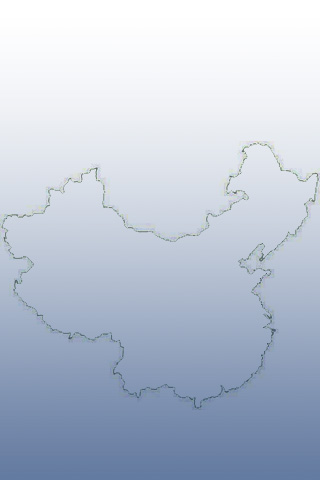
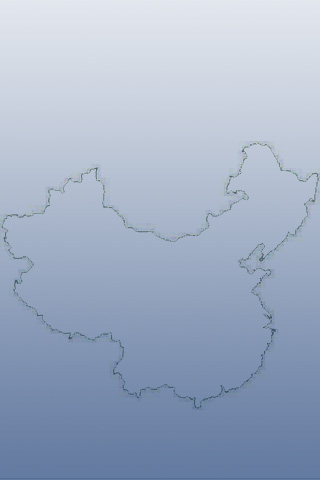
美化界面

diff --git a/Classes/SearchConditionController.m b/Classes/SearchConditionController.m
@@ -45,6 +45,9 @@
 // Implement viewDidLoad to do additional setup after loading the view, typically from a nib.
 - (void)viewDidLoad {
 	NSLog(@"SearchCondition viewDidLoad!");
+    UINavigationController *nav = (UINavigationController *)self.parentViewController;
+    nav.view.backgroundColor = [ UIColor colorWithPatternImage:[UIImage imageNamed:@"china3.jpg"] ];
+
     
     NSDate *curDate = [NSDate date];//获取当前日期
     NSDateFormatter *formater = [[ NSDateFormatter alloc] init];
@@ -264,14 +267,16 @@
 
     UITableViewCell *cell = [[[UITableViewCell alloc] initWithFrame:CGRectZero reuseIdentifier:SearchConditionFieldCellIdentifier] autorelease];
 
+    UIColor *aliveColor = [UIColor colorWithRed:0 green:0.2f blue:0.55f alpha:1];
+
     UILabel *label = [[UILabel alloc] initWithFrame:CGRectMake(10, 10, 75, 25)];
     label.textAlignment = UITextAlignmentRight;
     label.tag = kLabelTag;
     label.font = [UIFont boldSystemFontOfSize:14];
-    label.textColor = [UIColor grayColor];
-    label.backgroundColor = [UIColor whiteColor];
+    //label.textColor = [UIColor grayColor];
+    label.textColor = aliveColor;
+    //[aliveColor release];
     [cell.contentView addSubview:label];
-    
 	    
     cell.backgroundColor = [UIColor whiteColor]; 
     cell.textColor = [UIColor blackColor];
@@ -279,10 +284,12 @@
     switch (row) {
         case 0:
             label.text = @"航空公司";
+            label.backgroundColor = [UIColor clearColor];
             cell.selectionStyle = UITableViewCellSelectionStyleBlue;
             cell.accessoryType = UITableViewCellAccessoryDisclosureIndicator;
             
             UITextField *textField = [[UITextField alloc] initWithFrame:CGRectMake(90, 12, 200, 25)];
+            textField.font = [UIFont boldSystemFontOfSize:16];
             textField.clearsOnBeginEditing = NO;
             if (m_selectedSegmentIndex == 0) {//按航班号查询
                 textField.placeholder = @"必填";
@@ -293,16 +300,19 @@
             
             textField.tag = kSearchConditionCompanyTag;
             textField.text = self.searchConditionCompany.abbrev;
+
             [cell.contentView addSubview:textField];
             
             break;
         case 1:
             textField = [[UITextField alloc] initWithFrame:CGRectMake(90, 12, 200, 25)];
+            textField.font = [UIFont boldSystemFontOfSize:16];
             textField.clearsOnBeginEditing = NO;
             textField.placeholder = @"必填";
             
             if (m_selectedSegmentIndex == 0) {//按航班号查询
                 label.text = @"航班号";
+                label.backgroundColor = [UIColor clearColor];
                 cell.selectionStyle = UITableViewCellSelectionStyleNone;
                 
                 textField.keyboardType = UIKeyboardTypeNumbersAndPunctuation;
@@ -317,6 +327,7 @@
 
             } else { //按航段查询
                 label.text = @"出发";
+                label.backgroundColor = [UIColor clearColor];
                 cell.selectionStyle = UITableViewCellSelectionStyleBlue;
                 cell.accessoryType = UITableViewCellAccessoryDisclosureIndicator;
                 textField.userInteractionEnabled = NO;
@@ -330,16 +341,19 @@
             cell.selectionStyle = UITableViewCellSelectionStyleBlue;
             cell.accessoryType = UITableViewCellAccessoryDisclosureIndicator;
             textField = [[UITextField alloc] initWithFrame:CGRectMake(90, 12, 200, 25)];
+            textField.font = [UIFont boldSystemFontOfSize:16];
             textField.clearsOnBeginEditing = NO;
             textField.placeholder = @"必填";
             textField.userInteractionEnabled = NO;
             
             if (m_selectedSegmentIndex == 0) {//按航班号查询
                 label.text = @"出发日期";
+                label.backgroundColor = [UIColor clearColor];
                 textField.tag = kSearchConditionDateTag;
                 [textField setText:self.searchConditionDate];
             } else { //按航段查询
                 label.text = @"目的";
+                label.backgroundColor = [UIColor clearColor];
                 textField.tag = kSearchConditionToRouteTag;   
                 [textField setText:self.searchConditionArrivalAirport.fullname];
             }
@@ -348,11 +362,13 @@
             break;
         case 3:
             label.text = @"出发日期";
-            
+            label.backgroundColor = [UIColor clearColor];
+
             cell.selectionStyle = UITableViewCellSelectionStyleBlue;
             cell.accessoryType = UITableViewCellAccessoryDisclosureIndicator;
             
             textField = [[UITextField alloc] initWithFrame:CGRectMake(90, 12, 200, 25)];
+            textField.font = [UIFont boldSystemFontOfSize:16];
             textField.clearsOnBeginEditing = NO;
             textField.placeholder = @"必填";
             [textField setText:self.searchConditionDate];

diff --git a/Classes/MyNavAppDelegate.m b/Classes/MyNavAppDelegate.m
@@ -76,7 +76,7 @@
     application.applicationSupportsShakeToEdit = YES;
 	
     // Override point for customization after application launch.
-	//navController.view.backgroundColor = [ UIColor colorWithPatternImage:[UIImage imageNamed:@"china3.jpg"] ];
+	navController.view.backgroundColor = [ UIColor colorWithPatternImage:[UIImage imageNamed:@"china3.jpg"] ];
     [window addSubview: navController.view];
 	
     [window makeKeyAndVisible];

diff --git a/Classes/ListViewController.m b/Classes/ListViewController.m
@@ -195,7 +195,7 @@
 
 	self.title = @"航班列表";
 	self.tableView.backgroundColor = [UIColor clearColor];
-	//[self.tableView setSeparatorColor:[UIColor clearColor]];
+	[self.tableView setSeparatorColor:[UIColor clearColor]];
     
     //加载机场代码表进入数据字典
     [self loadAirportDictionary];
